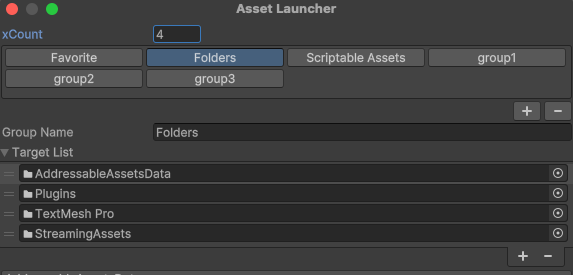
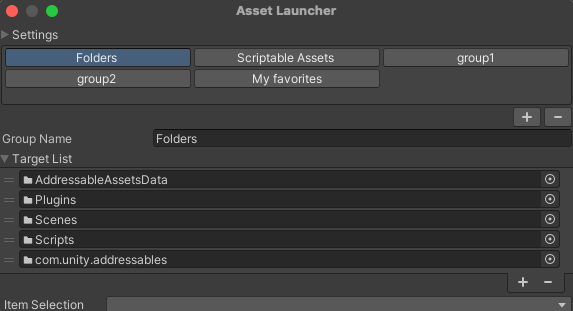
update store document

diff --git a/README.md b/README.md
@@ -16,6 +16,17 @@ You can easily Open and Close them from a shortcut key.
 ![](Editor/StoreDocument/Folders.png)
 
 
+Attach comment to Items
+---
+
+![](Editor/StoreDocument/SettingsAndFolders.png)
+
+
+Item Selection
+--- 
+
+![](Editor/StoreDocument/ItemSelection.gif)
+
 
 Usage
 --- 
